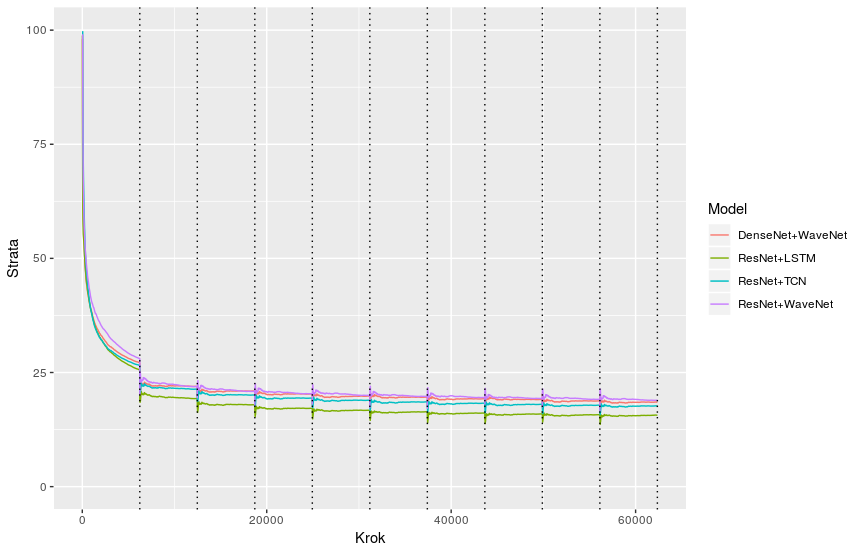
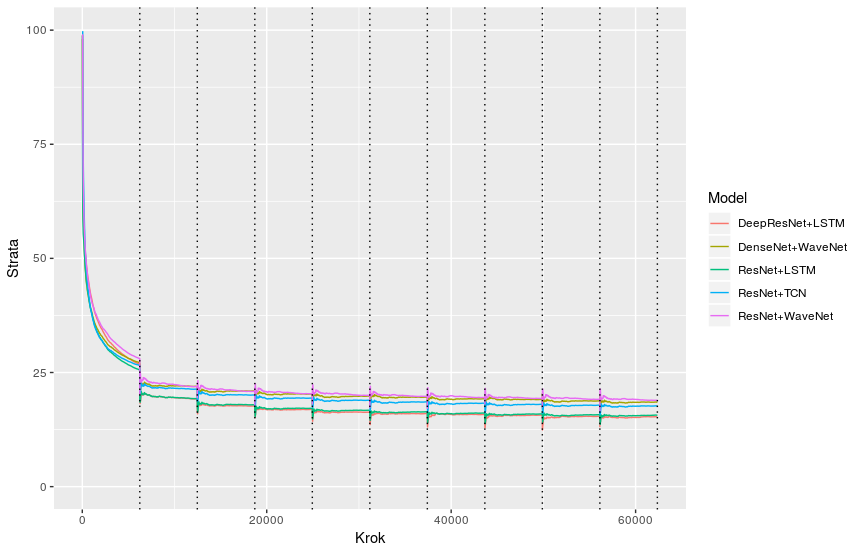
error analysis

diff --git a/Tekst/thesis_pl.tex b/Tekst/thesis_pl.tex
@@ -554,6 +554,10 @@ Na dane wejściowe nakładana jest warstwa konwolucyjna zmieniająca ich kształ
 	\caption{Architektura modelu ResNet + LSTM z połączeniami rezydualnymi}
 \end{figure}
 
+\subsection{Deep ResNet + LSTM z połączeniami rezydualnymi}
+
+Model, tak jak poprzedni, składa się z bloków ResNet i dwukierunkowych warstw LSTM. Zwiększono jednak głębokość sieci - zastosowano 10 bloków ResNet i 5 warstw LSTM. Dzięki zastosowaniu połączeń rezydualnych zwiększenie złożoności modelu powinno poprawić jakość predykcji.
+
 \subsection{ResNet + Konwolucje czasowe}
 
 Podobnie jak w poprzedniej sieci do ekstrakcji cech lokalnych wykorzystano 5 bloków ResNet. Po nich następują bloki wykorzystujące warstwy konwolucyjne rozszerzone i przyczynowe. W każdym bloku znajdują się 4 warstwy. Najpierw aplikowane są dwie z nich - jedna w oryginalnym kierunku a druga w odwróconym. Efekt zastosowania warstwy w odwróconym kierunku jest uzyskany poprzez odwróceniu danych wejściowych względem wymiaru odpowiadającemu czasowi, zastosowanie warstwy i odwróceniu otrzymanego wyniku. Oba te wyniki są konkatenowane, a następnie stosuje się do nich \textit{Batch normalization} i funkcję aktywacyjną ReLu Dwie kolejne warstwy wykonują tą samą operację. Każda z warstw oblicza po 128 cech. Wszystkie warstwy wewnątrz danego bloku mają tą samą wartość rozszerzenia(dilation), lecz w każdym kolejnym bloku jest ona podwajana. W sumie w sieci znajduje się 7 takich bloków, czyli ostatni ma wartość rozszerzenia równą 64. Jądro ma wielkość 3, zatem pole receptywne konwolucji w ostatniej warstwie sięga 128 kroków czasowych w obu kierunkach. Warstwa gęsto połączona jest aplikowana do sumy wyników obliczeń każdego z bloków.
@@ -653,6 +657,7 @@ Podczas basecallingu zbioru testowego obliczono znormalizowany dystans edycji po
 	\begin{tabular}{ll}
 		Model            & \begin{tabular}[c]{@{}l@{}}Znormalizowany \\ \\ Dystans Edycji\end{tabular} \\
 		ResNet+LSTM      & 0.1544                                                                      \\
+		Deep ResNet+LSTM & 0.1566                                                                      \\
 		ResNet+TCN       & 0.1853                                                                      \\
 		ResNet+WaveNet   & 0.2040                                                                      \\
 		DenseNet+WaveNet & 0.1879                                                                     
@@ -670,6 +675,7 @@ Sekwencje otrzymane z basecallingu całych odczytów zostały zmapowane na genom
 	\begin{tabular}{llllll}
 		& \begin{tabular}[c]{@{}l@{}}Procent\\ delecji\end{tabular} & \begin{tabular}[c]{@{}l@{}}Procent\\ insercji\end{tabular} & \begin{tabular}[c]{@{}l@{}}Procent \\ substytucji\end{tabular} & \begin{tabular}[c]{@{}l@{}}Stopień\\ identyczności\end{tabular} & \begin{tabular}[c]{@{}l@{}}Procent \\ błędów\end{tabular} \\
 		ResNet+LSTM      & 6.30\%                                                    & 2.26\%                                                     & 4.44\%                                                         & 89.26\%                                                         & 13.00\%                                                   \\
+		Deep ResNet+LSTM      & 5.55\%                                                    & 2.59\%                                                     & 4.25\%                                                         & 90.19\%                                                         & 11.44\%                                                   \\
 		ResNet+TCN       & 7.02\%                                                    & 3.00\%                                                     & 6.41\%                                                         & 86.57\%                                                         & 16.43\%                                                   \\
 		ResNet+WaveNet   & 9.18\%                                                    & 1.82\%                                                     & 5.74\%                                                         & 85.09\%                                                         & 16.74\%                                                   \\
 		DenseNet+WaveNet & 7.40\%                                                    & 2.56\%                                                     & 5.78\%                                                         & 86.83\%                                                         & 15.74\%                                                  
@@ -683,6 +689,7 @@ Sekwencje otrzymane z basecallingu całych odczytów zostały zmapowane na genom
 	\begin{tabular}{llllll}
 		& \begin{tabular}[c]{@{}l@{}}Procent\\ delecji\end{tabular} & \begin{tabular}[c]{@{}l@{}}Procent\\ insercji\end{tabular} & \begin{tabular}[c]{@{}l@{}}Procent \\ substytucji\end{tabular} & \begin{tabular}[c]{@{}l@{}}Stopień\\ identyczności\end{tabular} & \begin{tabular}[c]{@{}l@{}}Procent \\ błędów\end{tabular} \\
 		ResNet+LSTM      & 5.42\%                                                    & 2.20\%                                                     & 4.20\%                                                         & 90.39\%                                                         & 11.82\%                                                   \\
+		Deep ResNet+LSTM      & 4.77\%                                                    & 2.51\%                                                     & 4.08\%                                                         & 91.15\%                                                         & 11.44\%                                                   \\
 		ResNet+TCN       & 6.11\%                                                    & 2.94\%                                                     & 5.94\%                                                         & 87.95\%                                                         & 13.99\%                                                   \\
 		ResNet+WaveNet   & 8.15\%                                                    & 1.85\%                                                     & 5.59\%                                                         & 86.26\%                                                         & 15.59\%                                                   \\
 		DenseNet+WaveNet & 6.57\%                                                    & 2.52\%                                                     & 5.67\%                                                         & 87.76\%                                                         & 13.76\%                                                  
@@ -699,6 +706,7 @@ W tabeli \ref{table:consensus} zaprezentowano jakośc konsensusów otrzymanych z
 	\begin{tabular}{lll}
 		& \begin{tabular}[c]{@{}l@{}}Mediana stopnia\\ identycznośći\end{tabular} & \begin{tabular}[c]{@{}l@{}}Mediana długości\\ względem referencji\end{tabular} \\
 		ResNet+LSTM      & 99.67\%                                                                 & 99.69\%                                                                        \\
+		Deep ResNet+LSTM      & 99.77\%                                                                 & 99.80\%                                                                        \\
 		ResNet+TCN       & 99.55\%                                                                 & 99.75\%                                                                        \\
 		ResNet+WaveNet   & 98.94\%                                                                 & 99.02\%                                                                        \\
 		DenseNet+WaveNet & 99.43\%                                                                 & 99.55\%                                                                       
@@ -707,7 +715,37 @@ W tabeli \ref{table:consensus} zaprezentowano jakośc konsensusów otrzymanych z
 	\label{table:consensus}
 \end{table}
 
-\chapter{Wnioski}
+\subsection{Porównanie wyników, wnioski}
+
+We wszystkich obliczonych metrykach lepsze wyniki osiągają architektury wykorzystujące warstwy rekurencyjne. Sieci wykorzystujące wyłącznie warstwy konwolucyjne produkują odczyty o większym dystansie edycji względem referencji i tym samym konsensus o mniejszym stopniu identyczności. Może to wynikać z faktu że w sieciach LSTM istnieje stan obliczeń przekazywany pomiędzy krokami czasowymi - dzięki temu predykcja dokonana w pewnym kroku czasowym wpływa na te dokonywane w innych krokach. 
+
+Typ popełnianych błędów w odczytach jest podobny w prawie wszystkich modelach - pojawia się więcej delecji i substytucji niż insercji. Jedynie model ResNet+WaveNet cechuje się innym profilem błędów - występuję tam względnie więcej delecji a mniej insercji. Konsensus stworzony z dwóch zestawów odczytów o innym typie błędów może mieć lepszą jakość niż taki stworzony tylko jednego z nich, jednak  konsensusu z odczytów z różnych modeli nie poprawiało jego jakości. Zwiększenie liczby warstw w modelu ResNet+LSTM poprawiło jakość predykcji i to model DeepResNet+LSTM produkował odczyty o najwyższym stopniu identyczności i najmniejszej liczbie błędów. 
+
+Jakość pojedynczych odczytów miała bezpośredni wpływ na utworzony z nich konsensus - mniejsza liczba błędów w odczytach przekładała się na mniejszą liczbę błędów w konsensusie. Najlepszy konsensus powstał z odczytów z modelu DeepResNet+LSTM, przeprowadzono dla niego analizę błędów.s
+
+Prawie 80\% błędów występujących w konsensusie było delecją w homopolimerze czyli ciągu przynajmniej 3 tych samych baz sąsiadujących ze sobą. Sygnał pochodzący z takich fragmentów DNA może być trudny do przetworzenia przez sieć neuronową. Przykładowy fragment sygnału odpowiadający homopolimerowi składającemu się z ośmiu cząsteczek adeniny przedstawiono na wykresie \ref{homopolymer}. We fragmentach odpowiadających homopolimerom poziom sygnału zmienia się w małym stopniu, podczas gdy w innych fragmentach zmianie bazy odpowiada skok sygnału. Może to wynikać z faktu, że w przypadku homopolimerów dłuższych niż 5 baz przez dłuższy czas w porze znajduje się 5-mer, a zatem nie zmienia się opór. Dlatego model ma problemy z rozpoznaniem, że przez por przesunął się kolejny nukleotyd. Rozwiązaniem tego problemu może być osobny model, który wykryje fragmenty sygnału potencjalnie odpowiadające homopolimerom i dokona predykcji w inny sposób. Umożliwiłoby to wyeliminowanie znacznej części błędów w konsensusie.
+
+\begin{table}[]
+	\begin{tabular}{ll}
+		Rodzaj błędu             & Procent wszystkich błędów \\
+		Delecja w homopolimerze  & 78.81\%                   \\
+		Insercja w homopolimerze & 0.84\%                    \\
+		Inna insercja            & 11.01\%                   \\
+		Inna delecja             & 4.23\%                    \\
+		Substytucja              & 5.11\%                   
+	\end{tabular}
+	\caption{Rodzaj błedów popełnionych w konsensusie otrzymanym z readów basecallowanych modelem Deep ResNet+LSTM}
+	\label{table:errors}
+\end{table}
+
+\begin{figure}[h!]
+	\centering
+	\includegraphics[scale=0.8]{homopolymer}
+	\caption{Znormalizowany sygnał dla homopolimeru składającego się z ośmiu cząsteczek adeniny }
+	\label{fig:homopolymer}
+\end{figure}
+
+\chapter{Podsumowanie}
 % -------------------- 6. Bibliografia -----------------------
 % Bibliografia leksykograficznie wg nazwisk autorów
 % Dla ambitnych - można skorzystać z BibTeX-a
